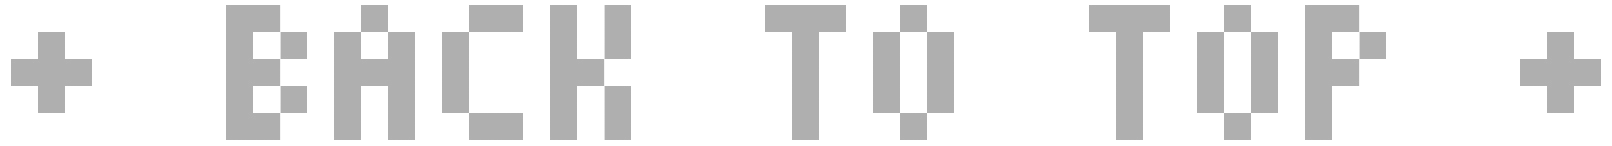
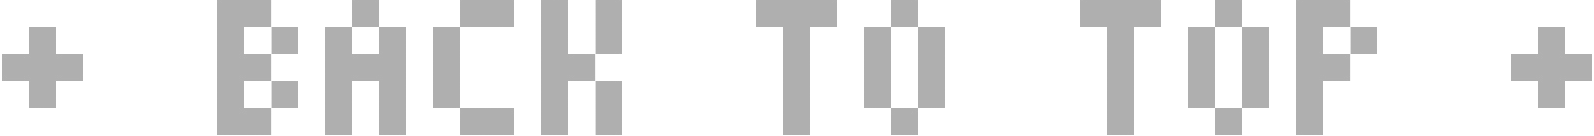
Fix up the scroll buttons

diff --git a/css/styles.css b/css/styles.css
@@ -17,7 +17,7 @@ html {
 
         #social-icons {
             .social-icon {
-                height: 20px;
+                height: 16px;
                 margin: 3px;
                 padding: 5px;
                 user-select: none;
@@ -50,11 +50,9 @@ html {
 
         #scroll-button {
             display: inline-block;
-            padding: 20px 410px;
-            letter-spacing: 4px;
-            border: 3px dashed #aaaaaa;
+            margin: 7px;
+            padding: 10px;
             cursor: pointer;
-            transition: background-color 300ms ease-in-out;
             
             img {
                 user-select: none;
@@ -63,8 +61,7 @@ html {
         }
 
         #scroll-button:hover {
-            cursor: pointer;
-            background-color: #102769;
+            box-shadow: 0px 0px 0px 6px #222244;
         }
 
         .body-h1 {
@@ -81,26 +78,6 @@ html {
             margin-bottom: 40px;
             margin-left: 80px;
             margin-right: 80px;
-        }
-    }
-
-    footer {
-        #scroll-button {
-            display: inline-block;
-            padding: 20px 410px;
-            letter-spacing: 4px;
-            border: 3px dashed #aaaaaa;
-            cursor: pointer;
-            transition: background-color 300ms ease-in-out;
-
-            img {
-                max-height: 25px;
-            }
-        }
-
-        #scroll-button:hover {
-            cursor: pointer;
-            background-color: #102769;
         }
     }
 }

diff --git a/index.html b/index.html
@@ -38,12 +38,12 @@
 
       <!-- the href below is changed in the script.js file.
            it will link to the 'proceed' div -->
-      <a href="#" id="scroll-button" 
+      <a href="#" id="scroll-button"
         ><img src="img/proceed.png" alt="proceed"
       /></a>
       <div id="proceed"></div>
-<!-- 
-      <div class="body-section">
+<!-- hide the body section until it's ready -->
+      <!-- <div class="body-section">
         <h1 class="body-h1">about me</h1>
         <p class="body-text">
           Lorem ipsum dolor sit amet, consectetur adipisicing elit. Dolore
@@ -109,11 +109,11 @@
           dolores fugit quia dolore modi inventore iusto?
         </p>
       </div>
-    </main>
-    <footer>
       <a href="#" id="scroll-button"
         ><img src="img/backtotop.png" alt="back to top"
       /></a>
-    </footer> -->
+    </main> -->
+<!-- hide the body section until it's ready -->
+    <footer></footer>
   </body>
 </html>

diff --git a/js/script.js b/js/script.js
@@ -103,6 +103,7 @@ document.addEventListener("DOMContentLoaded", function() {
             countdown --;  // decrement countdown
         }
         if (countdown === 0) {
+            // after countdown, enable proceeding down the site
             const proceeder = document.getElementById('scroll-button')
             /*
                 proceeder.addEventListener('click', proceed);
